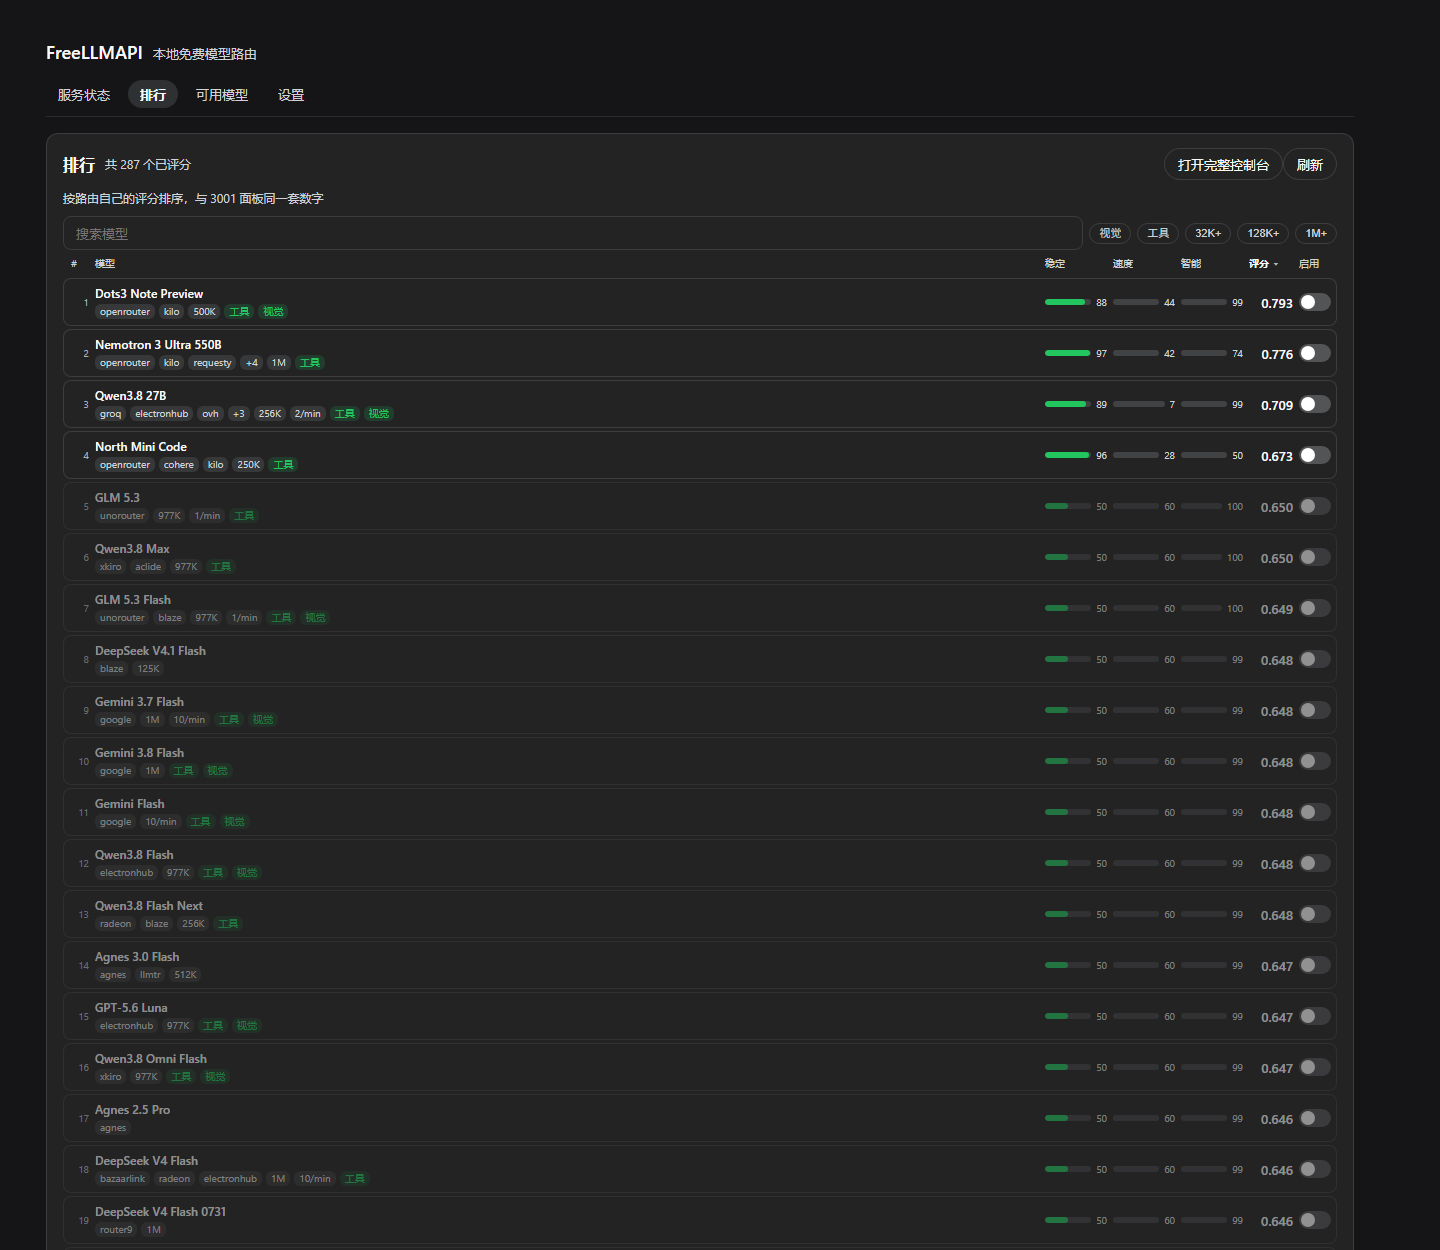
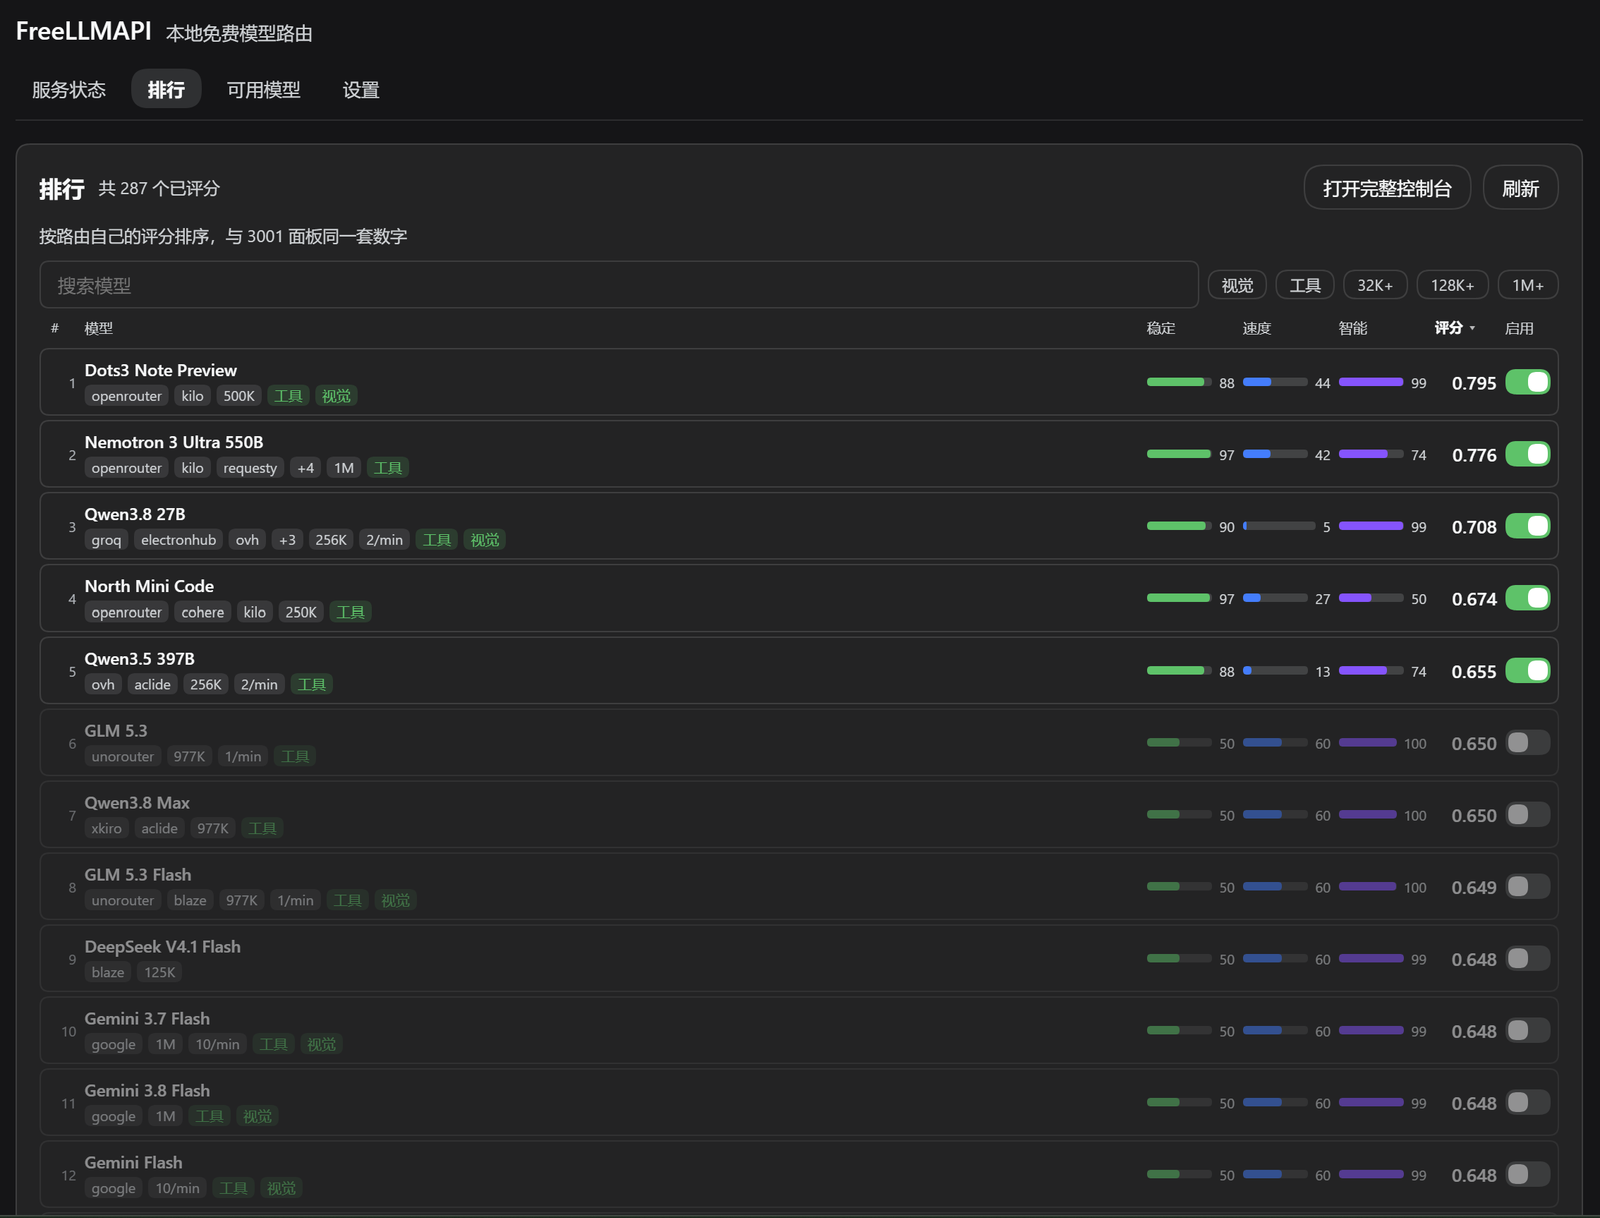
docs: real storefront screenshots, and a README that shows them
Replaces the two panel-only captures with four that show what the plugin
actually is:

- a conversation in DSH answered by a freellmapi slot model, with the
  composer naming the route it took
- the DSH model picker filtered to FreeLLMAPI, so the provider reads as
  one lane among the others rather than a separate tool
- the Ranking tab, with its sortable columns and per-row switches
- the router's own console, for provider keys, routing strategy and usage

The English and Chinese READMEs both caption each one, so the images carry
the argument instead of sitting above it. The console capture has the
browser profile avatar blurred out.

Drops assets/screenshot-status.png: the status card is visible inside the
chat capture, and four images is the point where a listing stops being
scannable.

diff --git a/README.md b/README.md
@@ -6,9 +6,24 @@ FreeLLMAPI as a first-class model provider in DeepSeek Harness — and the route
 itself ships inside the plugin, so there is nothing else to install, clone, or
 build.
 
-![The Ranking tab: one row per model with a stability, speed and intelligence bar, the combined score, the serving platforms, rate limits and context window](assets/screenshot-ranking.png)
+**A real answer, from a free model the router picked.**
 
-![The Status tab: router state, endpoint and process, and the button into the full console](assets/screenshot-status.png)
+![A conversation in DSH answered by a freellmapi slot model; the composer shows "Opus slot (auto-routed to a free model)"](assets/screenshot-chat.png)
+
+**It is a normal provider.** `freellmapi` sits in the model picker next to
+everything else, and every model the router reaches is one entry:
+
+![The DSH model picker, filtered to FreeLLMAPI, listing auto, fusion, the Claude slots and individual models](assets/screenshot-picker.png)
+
+**The Ranking tab.** One row per model with a stability / speed / intelligence
+bar, the combined score, the serving platforms, rate limits and context window:
+
+![The plugin's Ranking tab: 287 scored models, sortable columns, per-row enable switches](assets/screenshot-ranking.png)
+
+**And the router's own console**, one click away, for provider keys, routing
+strategy and usage — the parts a panel should not reimplement:
+
+![The bundled FreeLLMAPI console's model page: routing strategy, fallback chain, filters and the per-model score table](assets/screenshot-console.png)
 
 ## What it does
 
@@ -136,7 +151,7 @@ lib/ranking.js     the dashboard's ranking table, read out of the router's datab
 lib/kernel.js      the only @deepseek-ai/* seam (attribution user agent)
 lib/client.js      browser half: sidebar panel, ranking, model list, settings
 vendor/            the bundled router: server-dist, client-dist, node_modules
-assets/            storefront tile and screenshots
+assets/            storefront tile and the four listing screenshots
 screenshots.json   storefront images, read by the dshmarket listing
 smoke.mjs          offline checks; add --live to hit a running router
 ```

diff --git a/README.zh.md b/README.zh.md
@@ -5,9 +5,24 @@
 把 FreeLLMAPI 做成 DeepSeek Harness 里的一等模型 provider —— 而且路由本体就随插件
 打包，不用另外装、克隆或编译任何东西。
 
-![排行页：每个模型一行，稳定 / 速度 / 智能三条彩条、综合评分、服务它的平台、限速与上下文窗口](assets/screenshot-ranking.png)
+**真实的回答，来自路由器挑中的一个免费模型。**
 
-![服务状态页：路由器状态、接口地址与进程，以及进入完整控制台的按钮](assets/screenshot-status.png)
+![DSH 里的一段对话，由 freellmapi 的槽位模型作答；输入框显示「Opus slot (auto-routed to a free model)」](assets/screenshot-chat.png)
+
+**它就是一个普通 provider。** `freellmapi` 排在模型选择器里跟别的模型并排，路由器能碰到的每个
+模型都是一个条目：
+
+![DSH 模型选择器，筛选到 FreeLLMAPI，列出 auto、fusion、Claude 槽位与具体模型](assets/screenshot-picker.png)
+
+**排行页。** 一个模型一行，稳定 / 速度 / 智能三条彩条、综合评分、服务它的平台、限速与上下文
+窗口：
+
+![插件的排行页：287 个已评分模型、可按列排序、每行有启用开关](assets/screenshot-ranking.png)
+
+**以及路由器自己的控制台**，一键可达，用来管 provider key、路由策略与用量 —— 这些是面板不该
+重复实现的部分：
+
+![内置 FreeLLMAPI 控制台的模型页：路由策略、回退链、筛选与逐模型评分表](assets/screenshot-console.png)
 
 ## 它能做什么
 
